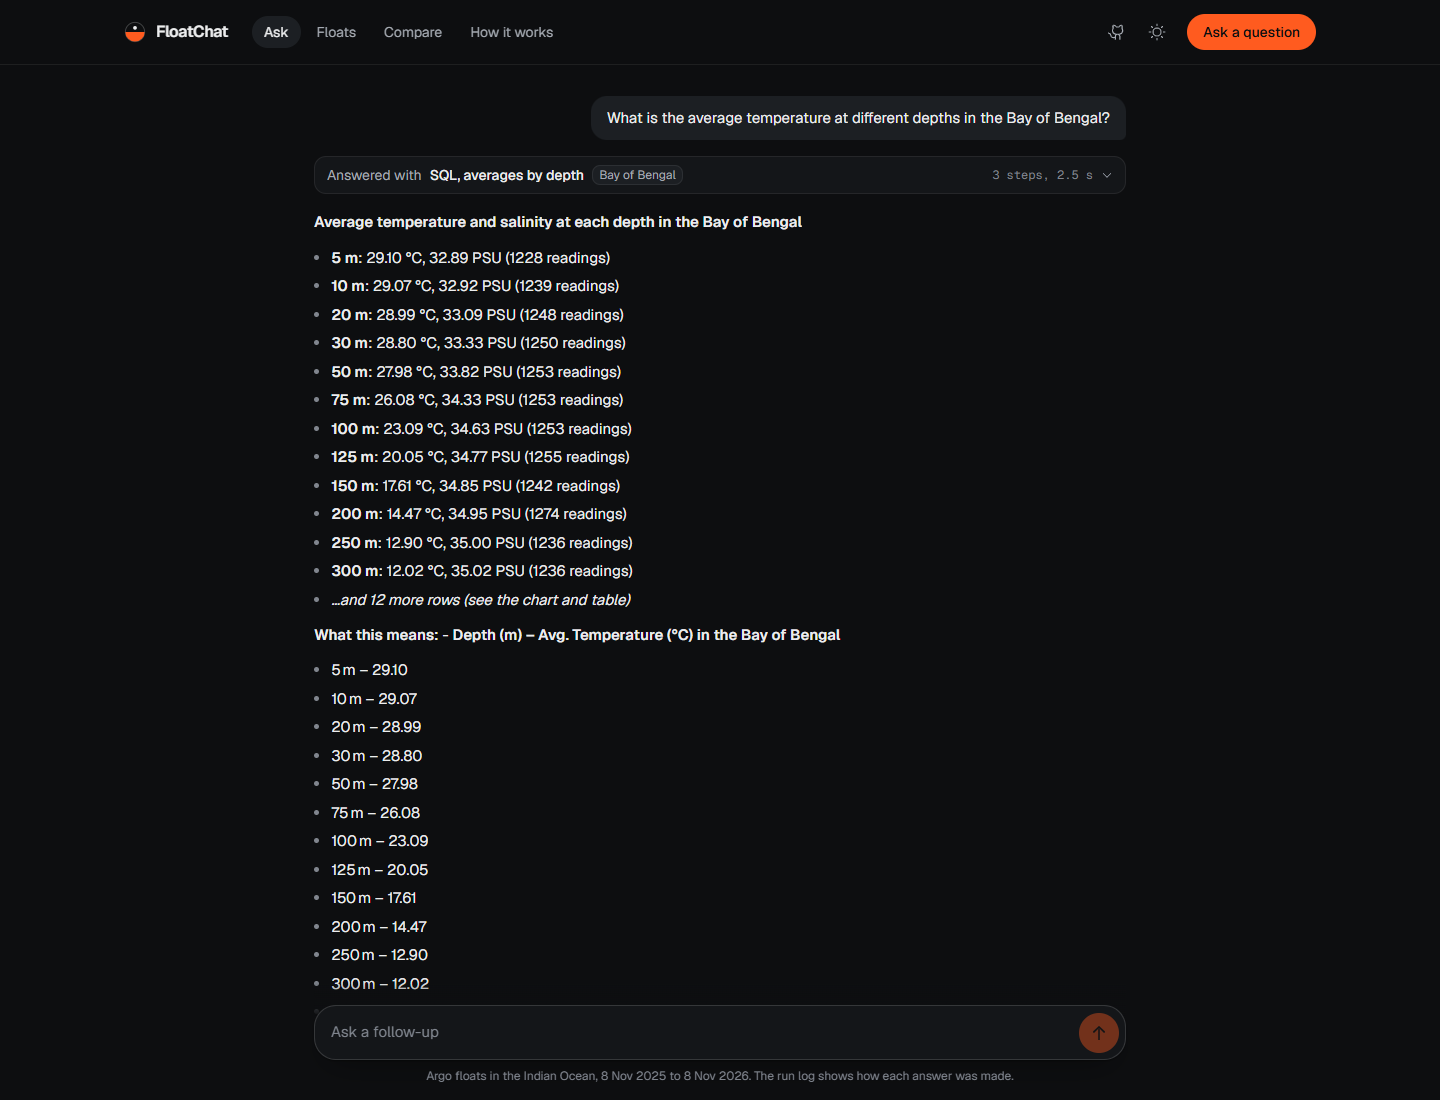
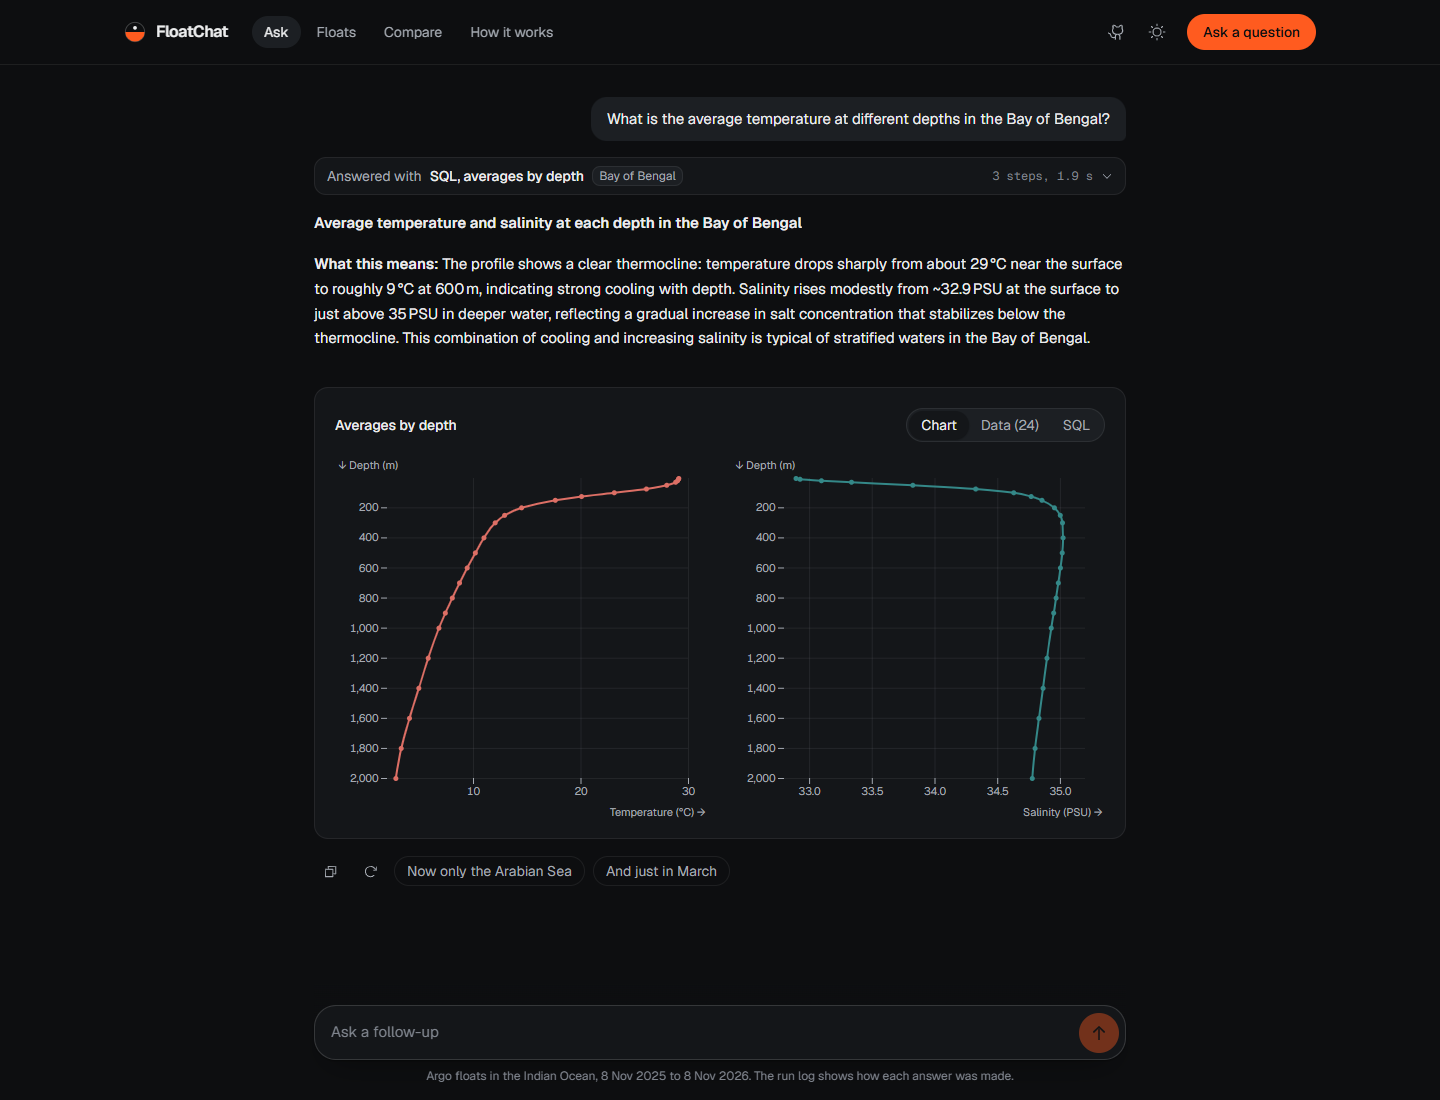
Live demo link, 30/30 benchmark, and the site's own social preview URL
- README: "Try it live" link to https://float-chat-ai-teal.vercel.app at the top; the
  hero screenshot and the data table link to it too.
- Benchmark re-run against the live API after the router fix (#14): 30/30, routing
  100%, median 1.9 s. Two answers fell back to the data-only summary when Groq's
  free tier hit its per-minute token limit; the README says so.
- metadataBase was hard-coded to floatchat.vercel.app, a domain this project does
  not own, so shared links pointed their preview image there. It now comes from
  NEXT_PUBLIC_SITE_URL, defaulting to the real site; DEPLOY.md tells forks to set it.
- Chat screenshot retaken from the live site (prose explanation, compact header).

diff --git a/web/lib/config.ts b/web/lib/config.ts
@@ -7,6 +7,9 @@ export const API_URL = (process.env.NEXT_PUBLIC_API_URL || "https://floatchat-ai
  */
 export const SERVER_API_URL = (process.env.API_URL_INTERNAL || API_URL).replace(/\/$/, "");
 
+/** The public address of this site, used for absolute links such as the social preview image. */
+export const SITE_URL = (process.env.NEXT_PUBLIC_SITE_URL || "https://float-chat-ai-teal.vercel.app").replace(/\/$/, "");
+
 export const REPO_URL = "https://github.com/CodexManvik/FloatChat-AI";
 export const BENCHMARK_URL = "https://raw.githubusercontent.com/CodexManvik/FloatChat-AI/main/eval/latest.json";
 export const BENCHMARK_TABLE_URL = `${REPO_URL}/blob/main/eval/latest.md`;

diff --git a/web/app/layout.tsx b/web/app/layout.tsx
@@ -2,10 +2,11 @@ import type { Metadata, Viewport } from "next";
 import { GeistMono } from "geist/font/mono";
 import { GeistSans } from "geist/font/sans";
 import { SiteHeader } from "@/components/site-header";
+import { SITE_URL } from "@/lib/config";
 import "./globals.css";
 
 export const metadata: Metadata = {
-  metadataBase: new URL("https://floatchat.vercel.app"),
+  metadataBase: new URL(SITE_URL),
   title: { default: "FloatChat: ask the Indian Ocean", template: "%s · FloatChat" },
   description:
     "Ask questions about a year of real Argo ocean-float data in plain English. FloatChat writes the SQL or searches " +

diff --git a/readme.md b/readme.md
@@ -3,10 +3,12 @@
 **Ask questions about a year of real ocean data in plain English. FloatChat writes the SQL or searches the
 profiles, shows every step it took, and draws the charts.**
 
-![FloatChat landing page](docs/screenshots/web-landing.png)
+### ▶ Try it live: [float-chat-ai-teal.vercel.app](https://float-chat-ai-teal.vercel.app)
+
+[![FloatChat landing page](docs/screenshots/web-landing.png)](https://float-chat-ai-teal.vercel.app)
 
 **Live API:** [floatchat-ai-svjw.onrender.com/docs](https://floatchat-ai-svjw.onrender.com/docs) ·
-**Benchmark:** 29/30 questions fully correct ([details](eval/latest.md)) · **Deploy your own:** [DEPLOY.md](DEPLOY.md)
+**Benchmark:** 30/30 questions fully correct ([details](eval/latest.md)) · **Deploy your own:** [DEPLOY.md](DEPLOY.md)
 
 **Contents:** [What FloatChat is](#-what-floatchat-is) · [How it's built](#-how-its-built) ·
 [How well it works](#-how-well-it-works) · [Run it on your machine](#-run-it-on-your-machine) ·
@@ -68,7 +70,7 @@ Each float has its own page: trajectory, latest profile, a depth-time section an
 All data are **real Argo observations** from the **Indian Ocean**, downloaded from the
 [Ifremer ERDDAP](https://erddap.ifremer.fr/erddap/) server, keeping only values that passed Argo's quality control:
 
-| | Live demo | Bundled snapshot (local setup) |
+| | [Live demo](https://float-chat-ai-teal.vercel.app) | Bundled snapshot (local setup) |
 |---|---|---|
 | Period | rolling last 12 months, refreshed nightly | January to March 2024 |
 | Floats | about 660 (107 measuring oxygen) | 437 (52 measuring oxygen) |
@@ -229,14 +231,15 @@ every Monday (`eval.yml`) and shows the table in the job summary. Without an LLM
 template questions and simple follow-ups; the free-phrasing and custom-SQL questions are where the LLM earns its keep.
 
 <!-- eval-score -->
-**Latest score (live API, 8 Nov 2026): 29/30 questions fully correct.**
+**Latest score (live API, 9 Nov 2026): 30/30 questions fully correct.**
 
 | Routing | Filters | Answer checks | Median latency | Answers written by the LLM |
 |---|---|---|---|---|
-| 97% | 100% | 100% | 2.6 s | 30/30 |
+| 100% | 100% | 100% | 1.9 s | 28/30 |
 
-The one miss: *"Profiles in the Bay of Bengal in September 2026"* went to custom SQL instead of profile search. The
-full per-question table is in [`eval/latest.md`](eval/latest.md).
+The benchmark asks its questions back to back, so Groq's free tier sometimes hits its tokens-per-minute limit. When
+that happens FloatChat still answers with a plain summary of the data, and the run log marks it *Answer built from
+the data alone*. The full per-question table is in [`eval/latest.md`](eval/latest.md).
 <!-- /eval-score -->
 
 ---

diff --git a/eval/latest.md b/eval/latest.md
@@ -1,15 +1,15 @@
-## FloatChat evaluation — 29/30 questions fully correct
+## FloatChat evaluation — 30/30 questions fully correct
 
-Run against `https://floatchat-ai-svjw.onrender.com` on 2026-11-08 18:16 UTC.
+Run against `https://floatchat-ai-svjw.onrender.com` on 2026-11-09 05:16 UTC.
 
 | Metric | Score |
 |---|---|
-| Routing accuracy (SQL vs search, and which analysis) | 97% |
+| Routing accuracy (SQL vs search, and which analysis) | 100% |
 | Filter accuracy (region, month, year, sensor) | 100% |
 | Answer checks passed | 100% |
-| Median latency | 2595 ms |
-| Understood by the LLM router | 28/30 |
-| Answers written by the LLM | 30/30 |
+| Median latency | 1929 ms |
+| Understood by the LLM router | 30/30 |
+| Answers written by the LLM | 28/30 |
 
 | Case | Question | Routing | Filters | Answer | Notes |
 |---|---|---|---|---|---|
@@ -38,7 +38,7 @@ Run against `https://floatchat-ai-svjw.onrender.com` on 2026-11-08 18:16 UTC.
 | `no-data-red-sea` | Describe recent profiles from the Red Sea | ✅ | ✅ | ✅ |  |
 | `find-nitrate-arabian` | Find nitrate measurements in the Arabian Sea | ✅ | ✅ | ✅ |  |
 | `find-thermocline` | Show me profiles with a strong thermocline | ✅ | ✅ | ✅ |  |
-| `find-bengal-september` | Profiles in the Bay of Bengal in September 2026 | ❌ | ✅ | ✅ | routed to analytical/custom |
+| `find-bengal-september` | Profiles in the Bay of Bengal in September 2026 | ✅ | ✅ | ✅ |  |
 | `follow-region` | now only the Bay of Bengal *(follow-up to depth-avg)* | ✅ | ✅ | ✅ |  |
 | `follow-month` | and just in March *(follow-up to depth-avg-arabian)* | ✅ | ✅ | ✅ |  |
 | `follow-monthly-arabian` | now for the Arabian Sea *(follow-up to monthly)* | ✅ | ✅ | ✅ |  |

diff --git a/DEPLOY.md b/DEPLOY.md
@@ -118,8 +118,10 @@ shared secret is needed.
    https://floatchat.vercel.app,http://localhost:3000
    ```
 
-5. Open the site and ask a question. The run log should fill in step by step and the answer should stream in.
-   If you later add a custom domain on Vercel, add it to `ALLOWED_ORIGINS` too.
+5. In **Vercel → your project → Settings → Environment Variables**, add `NEXT_PUBLIC_SITE_URL` = that URL and
+   redeploy, so shared links show your site's preview image (the default is the original demo's address).
+6. Open the site and ask a question. The run log should fill in step by step and the answer should stream in.
+   If you later add a custom domain on Vercel, add it to `ALLOWED_ORIGINS` and `NEXT_PUBLIC_SITE_URL` too.
 
 ## 6. Streamlit Community Cloud: the old interim UI (optional)
 
